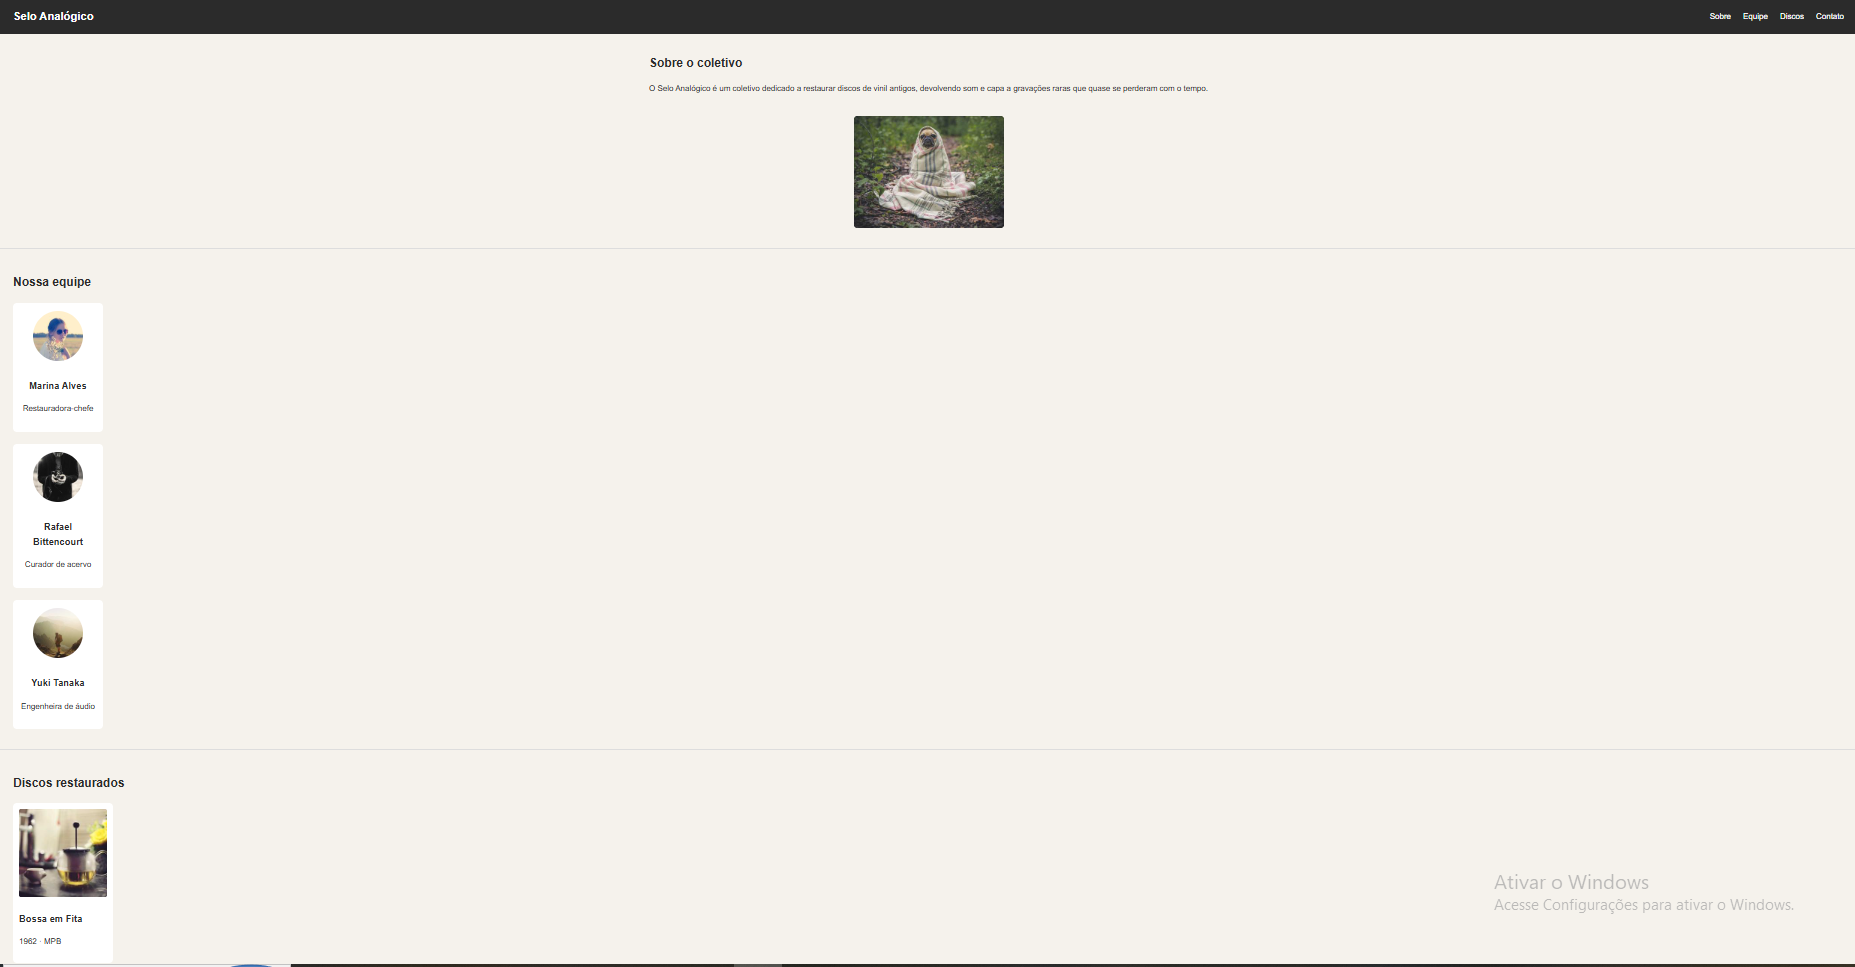
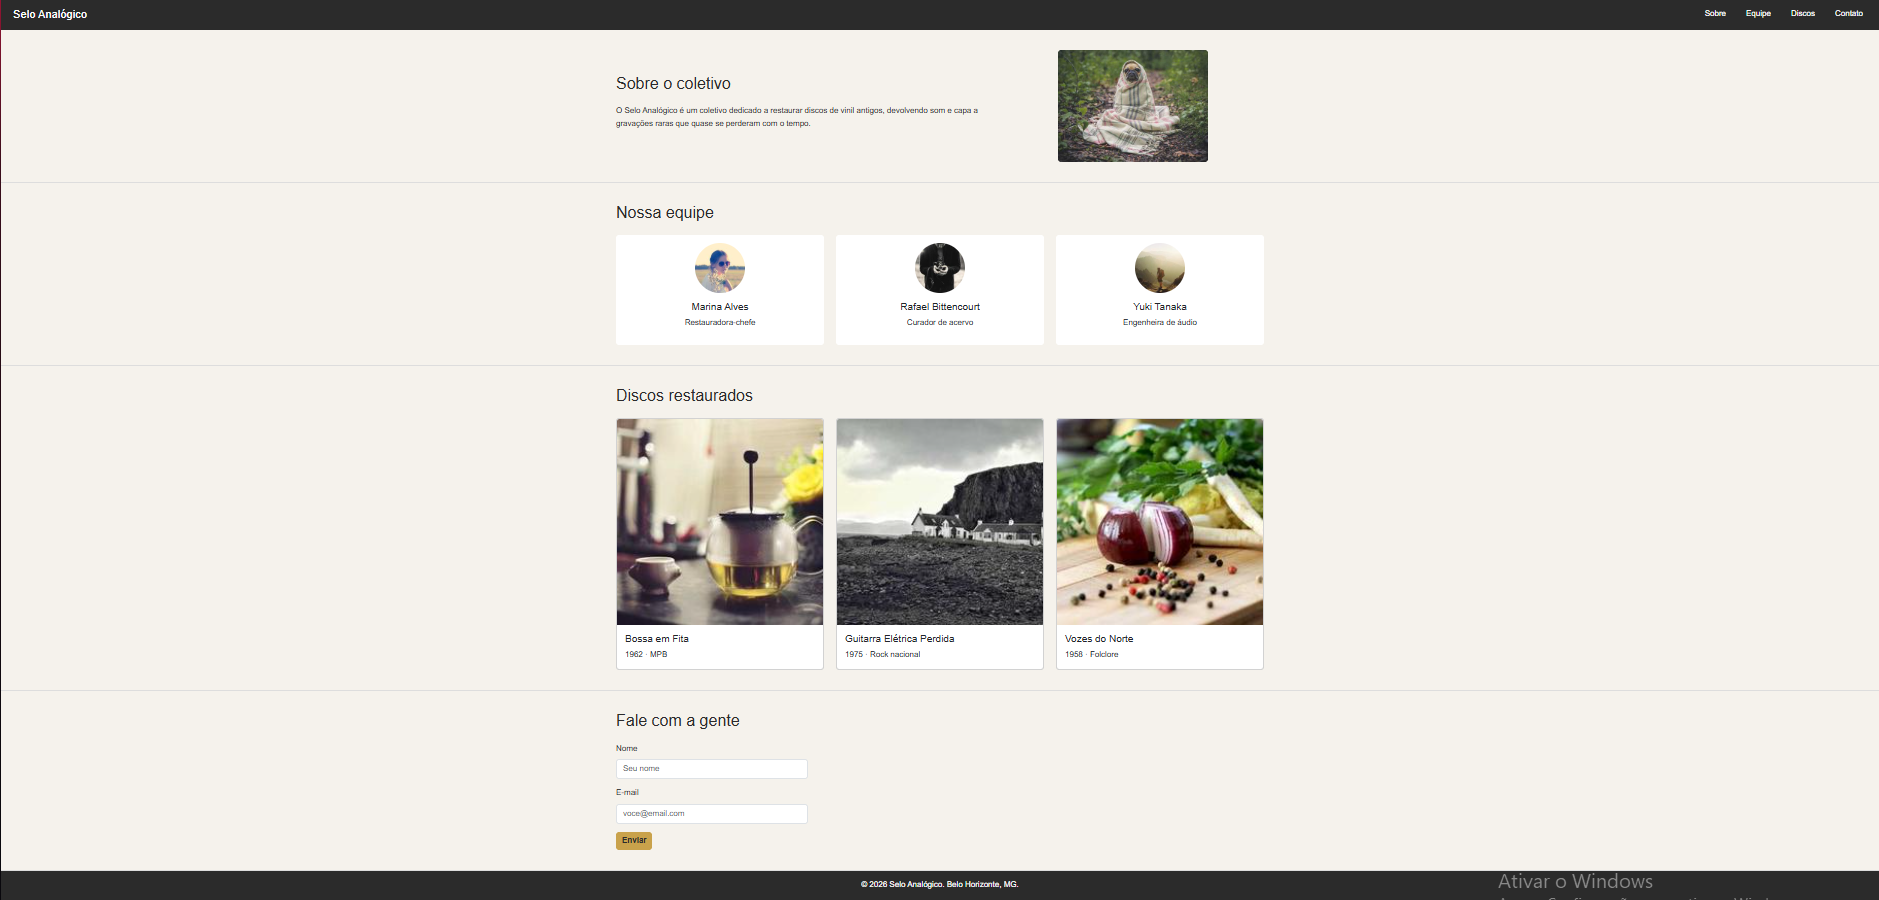
criação da versão responsiva com Bootstrap

diff --git a/README.md b/README.md
@@ -10,8 +10,8 @@ Descrição do projeto
 O Selo Analógico é um site fictício para um coletivo dedicado a restaurar discos de vinil raros e esquecidos. A entidade principal é a organização (o coletivo) e a entidade secundária são os membros da equipe e os discos restaurados (projetos do acervo). A home-page apresenta uma seção de apresentação do coletivo, a equipe responsável pelas restaurações, uma galeria com discos já restaurados e um formulário de contato.
 
 Print da Wireframe:
-![Wireframe da home-page](public/Wireframe.png)
+![Wireframe da home-page](Wireframe.png)
 Print pagina final:
-![PrintDesktop](public/PrintDesktop.png)
+![PrintDesktop](PrintDesktop.png)
 Print por mobile:
- ![PrintMobile](public/PrintMobile.jpg)
+ ![PrintMobile](PrintMobile.jpg)
